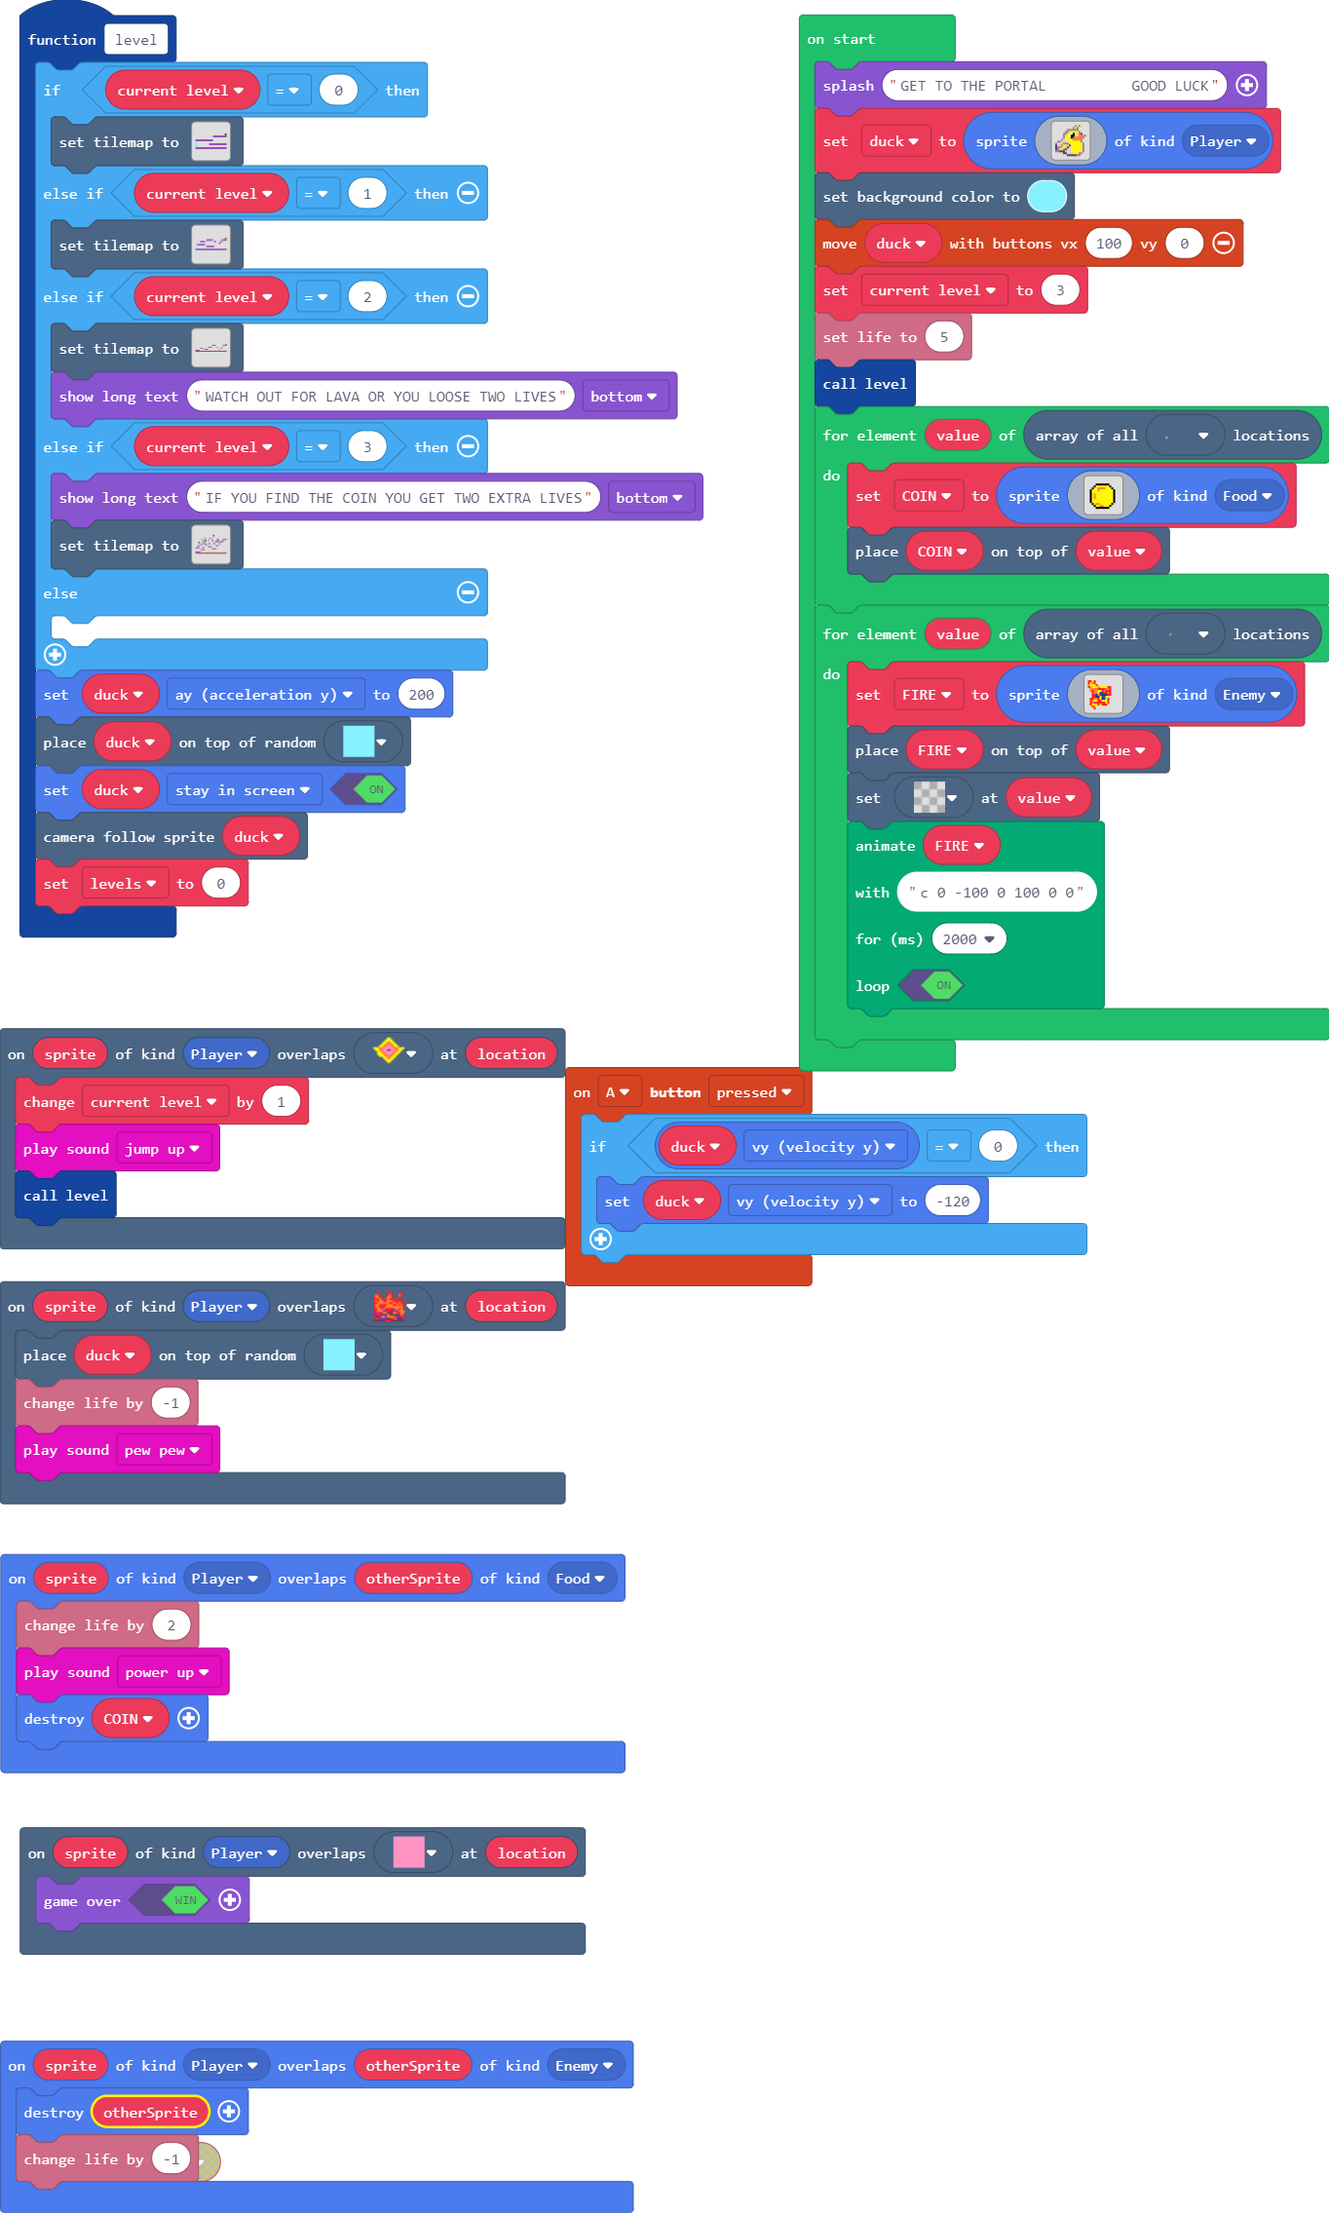
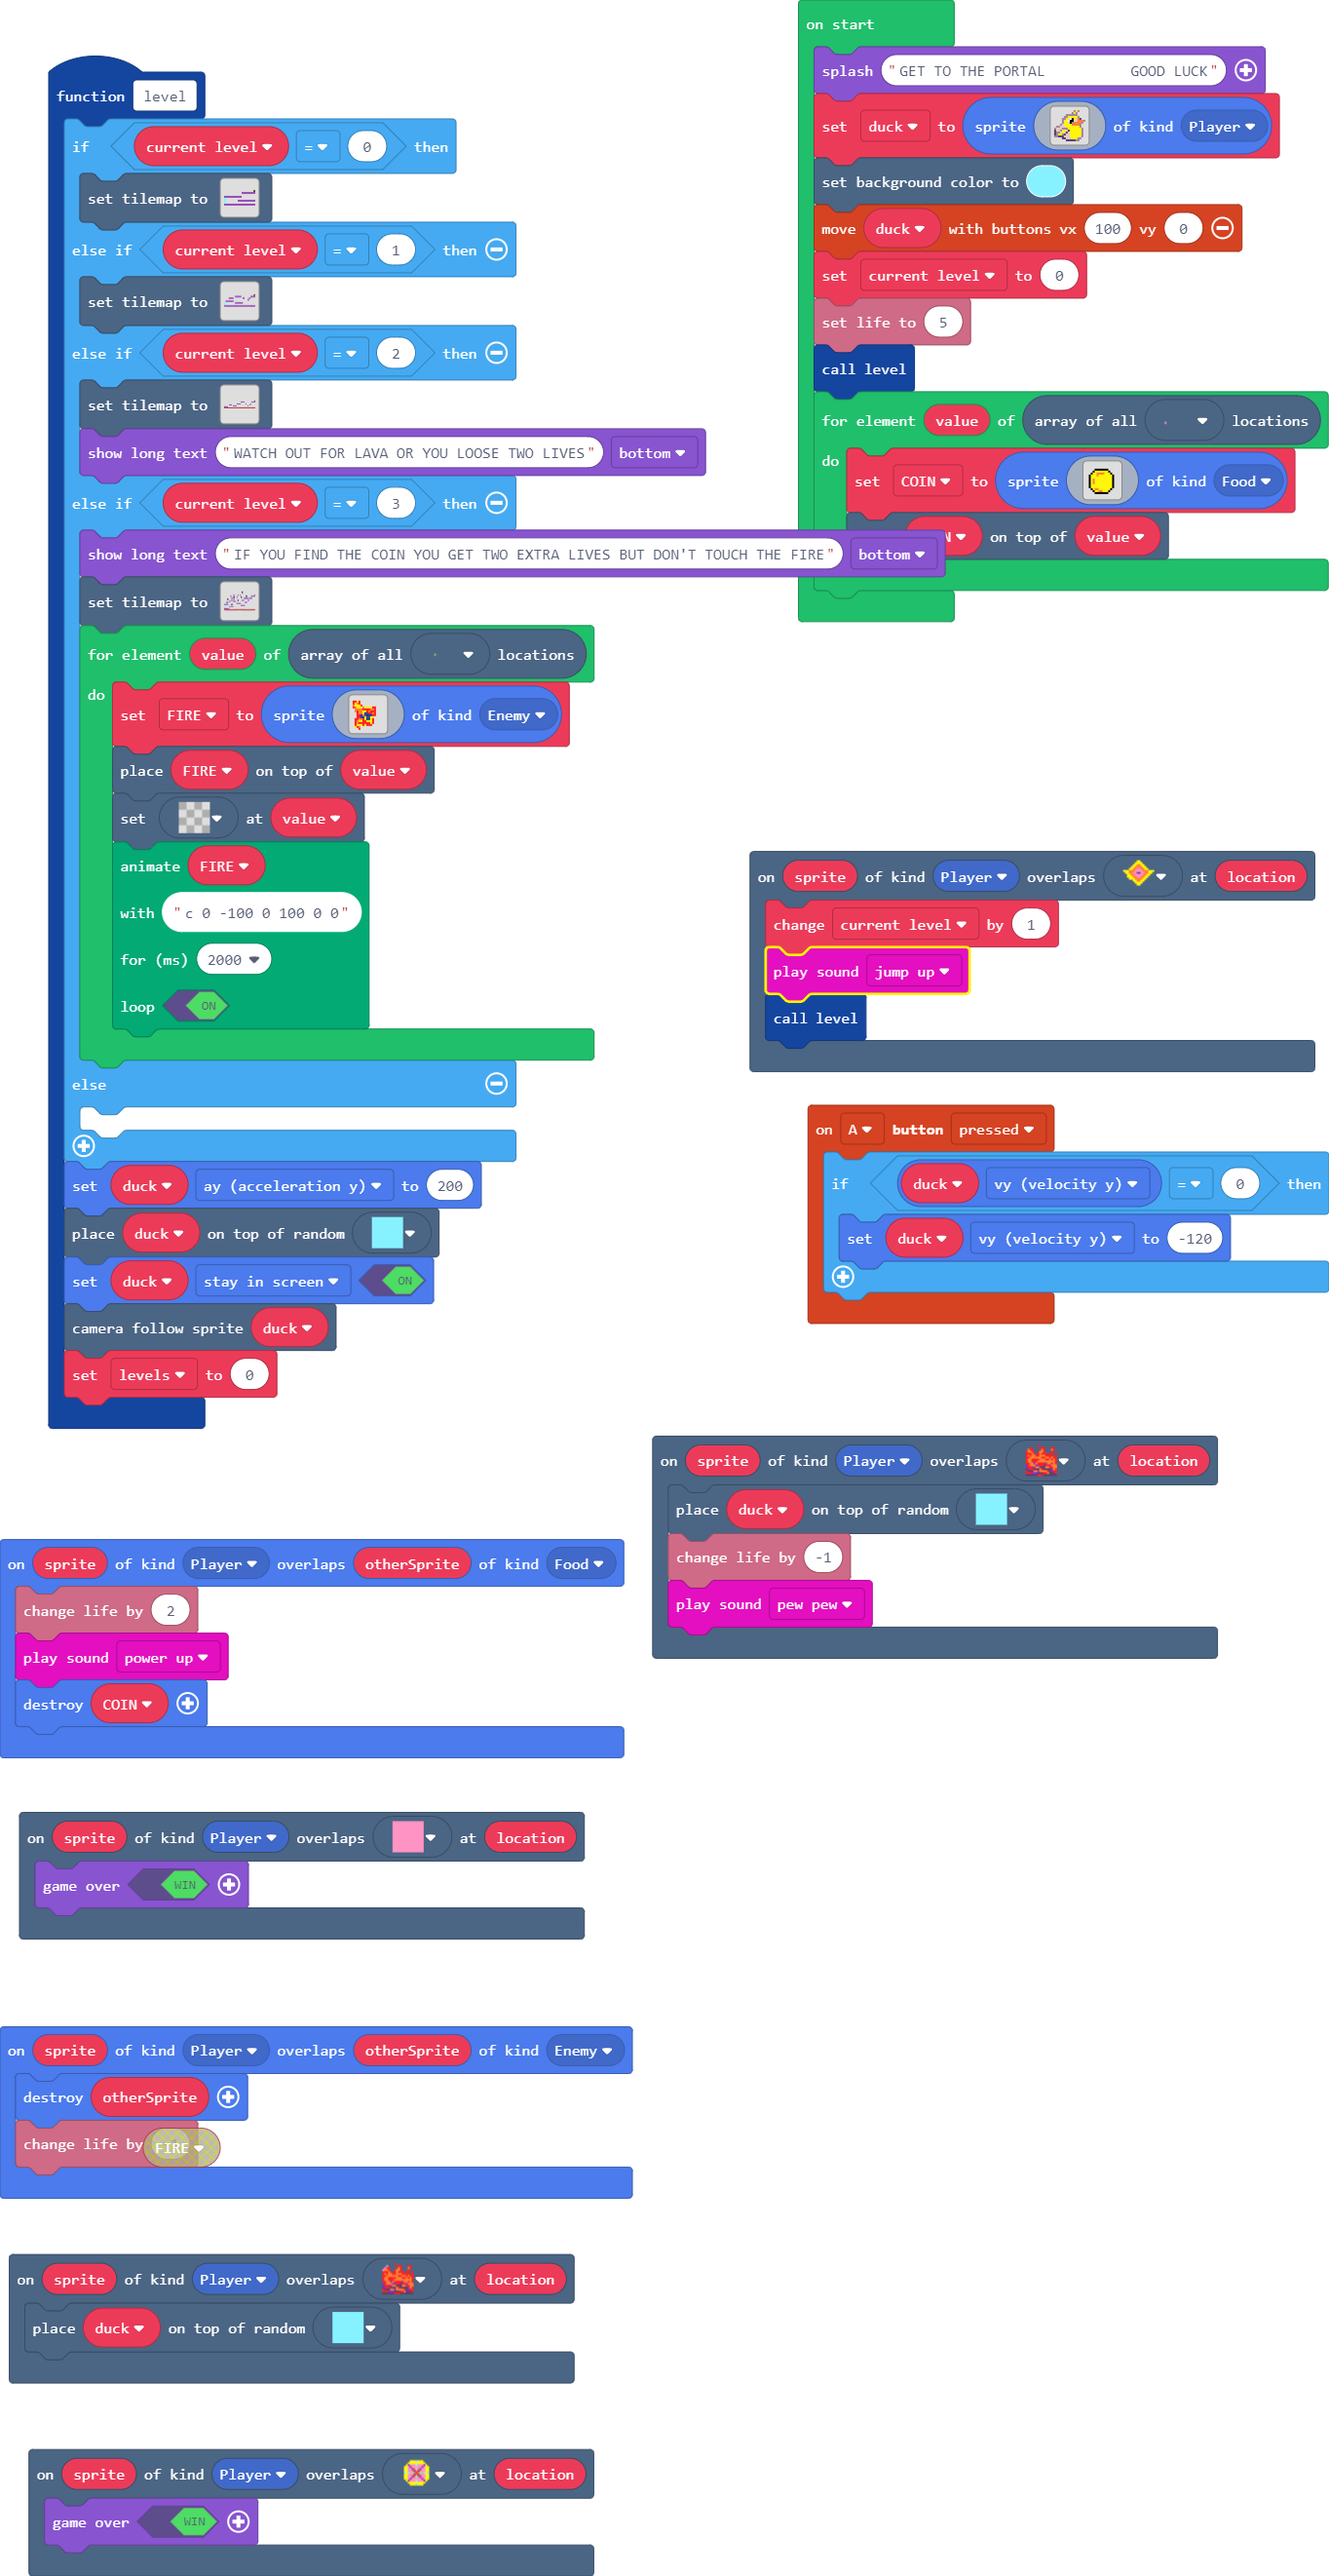
working game

diff --git a/main.ts b/main.ts
@@ -246,7 +246,67 @@ c c c c c c 2 2 2 c c c c c c c
 . . . . . . . . . . . . . . . . 
 . . . . . . . . . . . . . . . . 
 `
+    //% blockIdentity=images._tile
+    export const tile13 = img`
+. . . . . . . . . . . . . . . . 
+. . . . . . . . . . . . . . . . 
+. . . . . . . . . . . . . . . . 
+. . . . . . . . . . . . . . . . 
+. . . . . . . . . . . . . . . . 
+. . . . . . . . . . . . . . . . 
+. . . . . . . . . . . . . . . . 
+. . 8 . . . . . . . . . . . . . 
+. . 8 8 . . . . . . . . . . . . 
+. . . . . . . . . . . . . . . . 
+. . . . . . . . . . . . . . . . 
+. . . . . . . . . . . . . . . . 
+. . . . . . . . . . . . . . . . 
+. . . . . . . . . . . . . . . . 
+. . . . . . . . . . . . . . . . 
+. . . . . . . . . . . . . . . . 
+`
+    //% blockIdentity=images._tile
+    export const tile14 = img`
+. . . . . . 2 . . . . . . . . . 
+. . 3 . . . . 2 2 2 . . . 2 2 . 
+. 3 2 2 . . . . 4 2 . . . 4 2 . 
+3 4 4 2 . . 2 4 4 2 . . . 2 . . 
+2 2 2 4 2 . 2 4 2 2 2 . 2 2 . 2 
+2 4 2 4 4 2 2 4 4 4 2 2 2 2 . 2 
+2 2 4 4 4 4 4 4 2 2 4 4 2 4 2 2 
+2 4 4 2 2 2 2 4 4 4 2 2 4 2 4 2 
+2 4 4 2 2 2 4 4 4 4 4 4 4 4 4 2 
+2 2 4 4 a 4 2 2 2 2 a 4 4 2 4 2 
+a 2 4 4 4 a a 2 2 c 2 2 a 4 4 4 
+a 2 2 a 2 4 4 c c c 4 4 2 2 4 4 
+c a 2 2 c c c 4 2 c c c c a 4 2 
+2 c c c 4 4 a 4 4 4 4 2 c a 2 2 
+2 2 2 a a a c c c 2 2 4 c c c 2 
+c c c c c c 2 2 2 c c c c c c c 
+`
+    //% blockIdentity=images._tile
+    export const tile15 = img`
+. . . . . . . . . . . . . . . . 
+. . . . 5 5 5 9 5 5 5 . . . . . 
+. . . 5 5 5 5 5 5 5 5 5 . . . . 
+. . 5 a 3 3 3 9 3 3 3 a 5 . . . 
+. 5 5 3 a 3 3 3 3 3 a 3 5 5 . . 
+. 5 5 3 3 a 4 9 4 a 3 3 5 5 . . 
+. 5 5 3 3 4 a 4 a 4 3 3 5 5 . . 
+. 9 5 9 3 9 4 2 4 9 3 9 5 9 . . 
+. 5 5 3 3 4 a 4 a 4 3 3 5 5 . . 
+. 5 5 3 3 a 4 9 4 a 3 3 5 5 . . 
+. 5 5 3 a 3 3 3 3 3 a 3 5 5 . . 
+. . 5 a 3 3 3 9 3 3 3 a 5 . . . 
+. . . 5 5 5 5 5 5 5 5 5 . . . . 
+. . . . 5 5 5 9 5 5 5 . . . . . 
+. . . . . . . . . . . . . . . . 
+. . . . . . . . . . . . . . . . 
+`
 }
+scene.onOverlapTile(SpriteKind.Player, myTiles.tile15, function (sprite, location) {
+    game.over(true)
+})
 function level () {
     if (current_level == 0) {
         tiles.setTilemap(tiles.createTilemap(
@@ -261,7 +321,7 @@ function level () {
 . . . . . . . . . . . . . . . . 
 2 2 2 2 2 2 2 2 2 2 2 2 2 2 2 2 
 `,
-            [myTiles.tile0,myTiles.tile1,myTiles.tile2,myTiles.tile3,myTiles.tile4,myTiles.tile5,myTiles.tile6,myTiles.tile7,myTiles.tile8,myTiles.tile9,myTiles.tile10,myTiles.tile11,myTiles.tile12],
+            [myTiles.tile0,myTiles.tile1,myTiles.tile2,myTiles.tile3,myTiles.tile4,myTiles.tile5,myTiles.tile6,myTiles.tile7,myTiles.tile8,myTiles.tile9,myTiles.tile10,myTiles.tile11,myTiles.tile12,myTiles.tile13,myTiles.tile14,myTiles.tile15],
             TileScale.Sixteen
         ))
     } else if (current_level == 1) {
@@ -277,12 +337,12 @@ function level () {
 . . . . . . . . . . . . . . . . . . . . 
 2 2 2 2 2 2 2 2 2 2 2 2 2 2 2 2 2 2 2 2 
 `,
-            [myTiles.tile0,myTiles.tile1,myTiles.tile2,myTiles.tile3,myTiles.tile4,myTiles.tile5,myTiles.tile6,myTiles.tile7,myTiles.tile8,myTiles.tile9,myTiles.tile10,myTiles.tile11,myTiles.tile12],
+            [myTiles.tile0,myTiles.tile1,myTiles.tile2,myTiles.tile3,myTiles.tile4,myTiles.tile5,myTiles.tile6,myTiles.tile7,myTiles.tile8,myTiles.tile9,myTiles.tile10,myTiles.tile11,myTiles.tile12,myTiles.tile13,myTiles.tile14,myTiles.tile15],
             TileScale.Sixteen
         ))
     } else if (current_level == 2) {
         tiles.setTilemap(tiles.createTilemap(
-            hex`2000080000000000000000000000000000000000000000000000000000000000000000030000000000000000000000000000000000010101010000000000000001010101000000000000000000000000000000000000000000000000000000000000000000000000000000000000000000010101010000000000010000000001000000000000000000010101000000000000000000000000000000000000010000000000050000000000000000010101010000000000000000000000010000000000000001010101000000000000000000000000000000000000000000000000000000000808080808080808080808080808080808080808080808080808080808080808`,
[1 lines of base64/hex data omitted]
             img`
 . . . . . . . . . . . . . . . . . . . . . . . . . . . . . . . . 
 . . . . . . . . . . . . . . . . . 2 2 2 2 . . . . . . . 2 2 2 2 
@@ -293,14 +353,14 @@ function level () {
 2 2 2 2 . . . . . . . . . . . . . . . . . . . . . . . . . . . . 
 . . . . . . . . . . . . . . . . . . . . . . . . . . . . . . . . 
 `,
-            [myTiles.tile0,myTiles.tile1,myTiles.tile2,myTiles.tile3,myTiles.tile4,myTiles.tile5,myTiles.tile6,myTiles.tile7,myTiles.tile8,myTiles.tile9,myTiles.tile10,myTiles.tile11,myTiles.tile12],
+            [myTiles.tile0,myTiles.tile1,myTiles.tile2,myTiles.tile3,myTiles.tile4,myTiles.tile5,myTiles.tile6,myTiles.tile7,myTiles.tile8,myTiles.tile9,myTiles.tile10,myTiles.tile11,myTiles.tile12,myTiles.tile13,myTiles.tile14,myTiles.tile15],
             TileScale.Sixteen
         ))
         game.showLongText("WATCH OUT FOR LAVA OR YOU LOOSE TWO LIVES", DialogLayout.Bottom)
     } else if (current_level == 3) {
-        game.showLongText("IF YOU FIND THE COIN YOU GET TWO EXTRA LIVES", DialogLayout.Bottom)
+        game.showLongText("IF YOU FIND THE COIN YOU GET TWO EXTRA LIVES BUT DON'T TOUCH THE FIRE", DialogLayout.Bottom)
         tiles.setTilemap(tiles.createTilemap(
[2 lines of base64/hex data omitted]
             img`
 . . . . . . . . . . . . . . . . . . . . . . . . . . . . . . 
 . . . . . . . . . . . . . . . . . 2 . . . . . . . . . . . . 
@@ -321,9 +381,37 @@ function level () {
 2 2 2 2 2 . . . . . . . . . . . . . . . . . . . . . . . . . 
 . . . . . . . . . . . . . . . . . . . . . . . . . . . . . . 
 `,
-            [myTiles.tile0,myTiles.tile1,myTiles.tile2,myTiles.tile3,myTiles.tile4,myTiles.tile5,myTiles.tile6,myTiles.tile7,myTiles.tile8,myTiles.tile9,myTiles.tile10,myTiles.tile11,myTiles.tile12],
+            [myTiles.tile0,myTiles.tile1,myTiles.tile2,myTiles.tile3,myTiles.tile4,myTiles.tile5,myTiles.tile6,myTiles.tile7,myTiles.tile8,myTiles.tile9,myTiles.tile10,myTiles.tile11,myTiles.tile12,myTiles.tile13,myTiles.tile14,myTiles.tile15],
             TileScale.Sixteen
         ))
+        for (let value of tiles.getTilesByType(myTiles.tile12)) {
+            FIRE = sprites.create(img`
+. . . . . . . . . . . . . . . . 
+2 2 5 2 . . . . . . . . . . . . 
+2 5 4 2 . . . . . . . . . . . . 
+4 5 5 5 2 . . . . . . . . . . . 
+2 4 5 5 5 4 5 5 5 5 2 2 . . . . 
+. 4 4 4 4 2 2 2 2 4 4 2 . . . . 
+. 4 2 4 4 5 5 2 4 2 2 2 . . . . 
+. . 2 4 4 5 8 c 2 2 4 2 . . . . 
+. . 2 2 8 4 c 8 8 8 2 2 . . . . 
+. . 2 2 8 8 5 c c 5 5 . . . . . 
+. 2 2 4 4 2 5 8 8 5 2 . . . . . 
+. 2 4 5 5 2 2 5 5 5 2 . . . . . 
+. 2 4 2 2 2 2 2 2 5 2 . . . . . 
+. 2 5 5 5 2 5 2 2 2 . . . . . . 
+. 5 2 4 . . . . . . . . . . . . 
+. . . 2 . . . . . . . . . . . . 
+`, SpriteKind.Enemy)
+            tiles.placeOnTile(FIRE, value)
+            tiles.setTileAt(value, myTiles.tile0)
+            animation.runMovementAnimation(
+            FIRE,
+            "c 0 -100 0 100 0 0",
+            2000,
+            true
+            )
+        }
     } else {
     	
     }
@@ -347,6 +435,9 @@ controller.A.onEvent(ControllerButtonEvent.Pressed, function () {
     if (duck.vy == 0) {
         duck.vy = -120
     }
+})
+scene.onOverlapTile(SpriteKind.Player, myTiles.tile14, function (sprite, location) {
+    tiles.placeOnRandomTile(duck, myTiles.tile5)
 })
 sprites.onOverlap(SpriteKind.Player, SpriteKind.Enemy, function (sprite, otherSprite) {
     otherSprite.destroy()
@@ -386,7 +477,7 @@ b b c c c d d d 5 5 5 5 5 d b .
 `, SpriteKind.Player)
 scene.setBackgroundColor(9)
 controller.moveSprite(duck, 100, 0)
-current_level = 3
+current_level = 0
 info.setLife(5)
 level()
 for (let value of tiles.getTilesByType(myTiles.tile4)) {
@@ -409,32 +500,4 @@ for (let value of tiles.getTilesByType(myTiles.tile4)) {
 . . . . . . . . . . . . . . . . 
 `, SpriteKind.Food)
     tiles.placeOnTile(COIN, value)
-}
-for (let value of tiles.getTilesByType(myTiles.tile12)) {
-    FIRE = sprites.create(img`
-. . . . . . . . . . . . . . . . 
-2 2 5 2 . . . . . . . . . . . . 
-2 5 4 2 . . . . . . . . . . . . 
-4 5 5 5 2 . . . . . . . . . . . 
-2 4 5 5 5 4 5 5 5 5 2 2 . . . . 
-. 4 4 4 4 2 2 2 2 4 4 2 . . . . 
-. 4 2 4 4 5 5 2 4 2 2 2 . . . . 
-. . 2 4 4 5 8 c 2 2 4 2 . . . . 
-. . 2 2 8 4 c 8 8 8 2 2 . . . . 
-. . 2 2 8 8 5 c c 5 5 . . . . . 
-. 2 2 4 4 2 5 8 8 5 2 . . . . . 
-. 2 4 5 5 2 2 5 5 5 2 . . . . . 
-. 2 4 2 2 2 2 2 2 5 2 . . . . . 
-. 2 5 5 5 2 5 2 2 2 . . . . . . 
-. 5 2 4 . . . . . . . . . . . . 
-. . . 2 . . . . . . . . . . . . 
-`, SpriteKind.Enemy)
-    tiles.placeOnTile(FIRE, value)
-    tiles.setTileAt(value, myTiles.tile0)
-    animation.runMovementAnimation(
-    FIRE,
-    "c 0 -100 0 100 0 0",
-    2000,
-    true
-    )
 }
